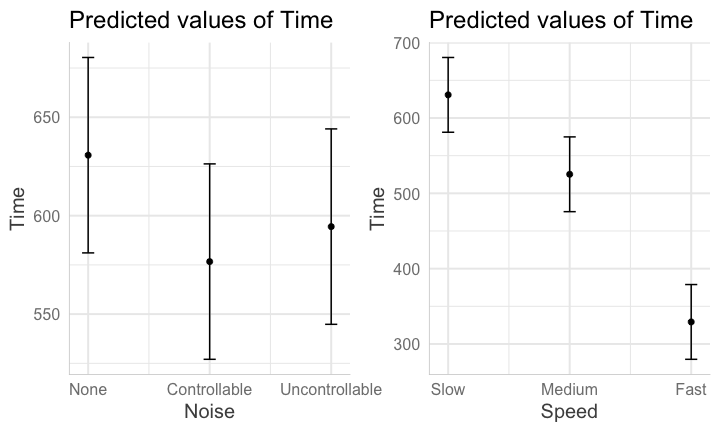
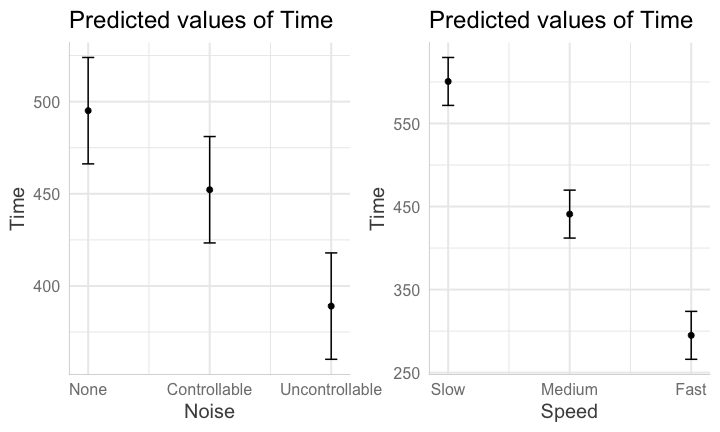
annouce homework postpone and link to latex distributions

diff --git a/index.html b/index.html
@@ -479,6 +479,17 @@ div.tocify {
 </div>
 
 
+<div id="announcements" class="section level1">
+<h1>Announcements</h1>
+<ul>
+<li>Download and install a TeX package before lab on March 6.
+<ul>
+<li>For Macs: <a href="http://www.tug.org/mactex/mactex-download.html">click here</a>.</li>
+<li>For Windows: <a href="https://miktex.org/">click here</a></li>
+</ul></li>
+<li>Homework 2 is now due on March 9 at 9am.</li>
+</ul>
+</div>
 <div id="overview" class="section level1">
 <h1>Overview</h1>
 <p>This course is the second in a 3-term sequence of classes designed to provide a thorough grounding in statistical concepts, methods, and applications of relevance to psychological science and related sciences. The aim of the course is to help students develop skills in the analysis and interpretation of real psychological data. Our focus will be both conceputual and mathematical – that is, understanding the underlying mathematical principals of statistics enhances ones’ ability to interpret and think critically about the use of statistics. Students will also learn the basics of the R language and use this program to wrangle, visualize, summarize, and test hypotheses with data.</p>

diff --git a/lectures/17-interactions.html b/lectures/17-interactions.html
@@ -292,9 +292,9 @@ noise_lsm
 
 ```r
 library(sjPlot)
-noise_m = plot_model(fit, type = "pred", terms = c("Noise")) + 
+noise_m = plot_model(fit, type = "emm", terms = c("Noise")) + 
   theme_sjplot(base_size = 20)
-speed_m = plot_model(fit, type = "pred", terms = c("Speed")) + 
+speed_m = plot_model(fit, type = "emm", terms = c("Speed")) + 
   theme_sjplot(base_size = 20)
 library(ggpubr)
 ggarrange(noise_m, speed_m, ncol = 2)

diff --git a/schedule.html b/schedule.html
@@ -713,7 +713,7 @@ div.tocify {
 <td><em>Lab: papaja</em></td>
 <td></td>
 <td></td>
-<td>HW 2 Due</td>
+<td>HW 2 Due Monday (March 9)</td>
 </tr>
 <tr class="even">
 <td>10</td>
